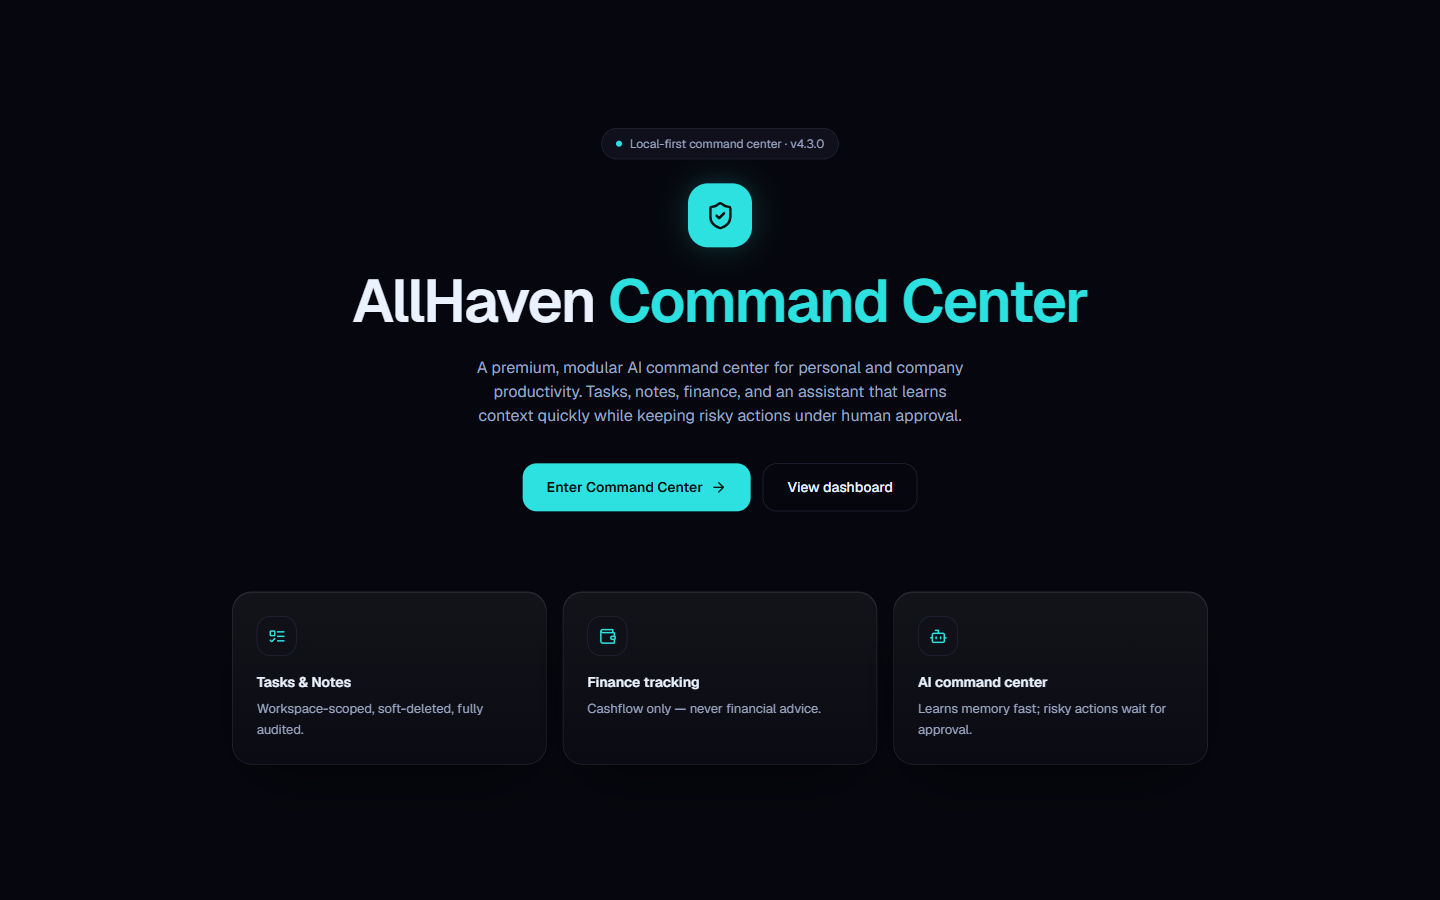
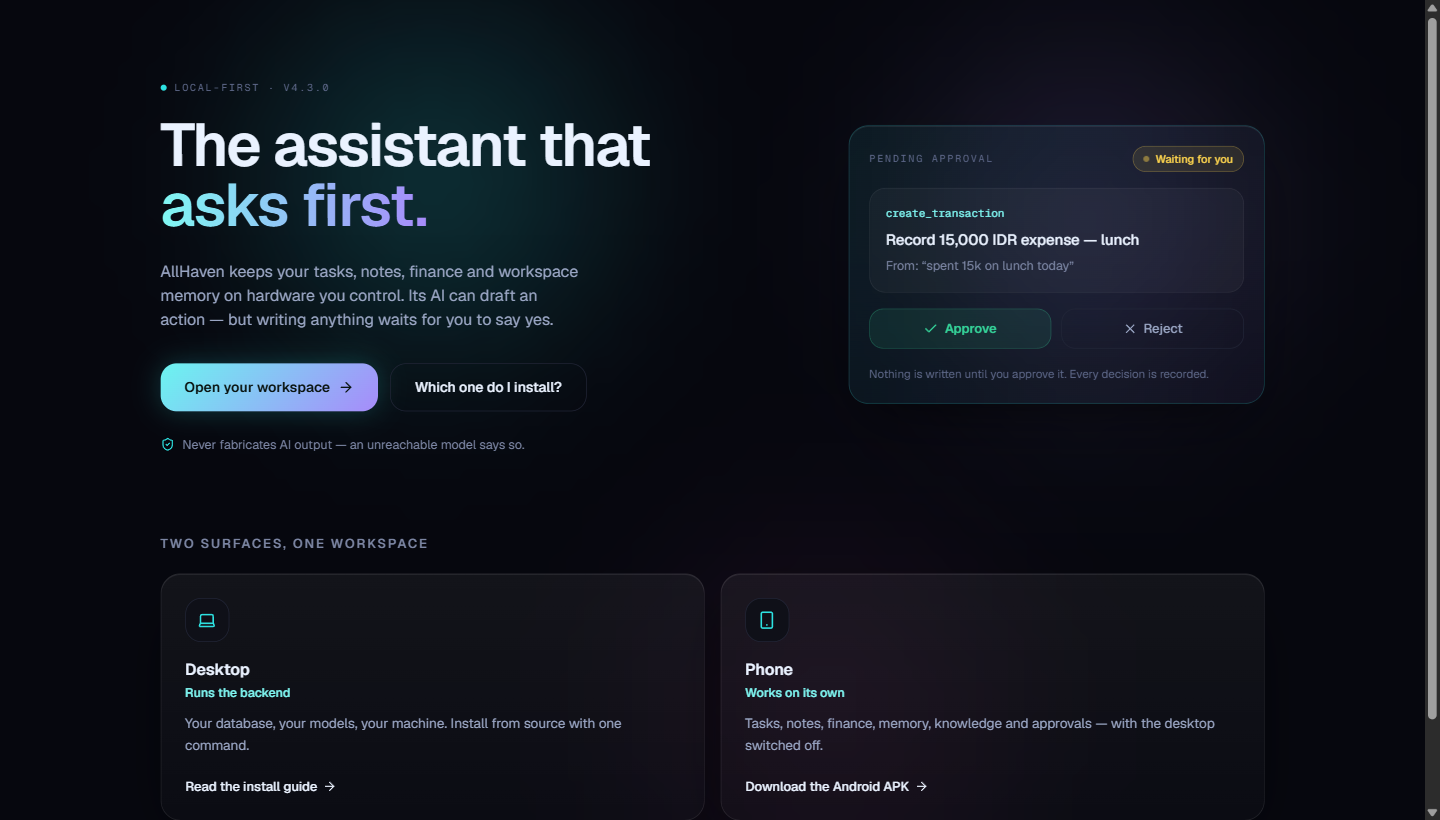
Redesign the landing page around the product's actual thesis
The page before login was the one screen that did not look like AllHaven. It
had none of the app's visual language — no aurora layer, no gradient type, flat
panels — and its content was the generic assistant pitch: badge, icon, title,
paragraph, three feature cards. It could have introduced any product.

What actually separates this app from other AI tools is the opposite of what
those pages claim. It does not act for you; it proposes and waits. So the hero
is now that mechanic rather than a description of it: a pending proposal
rendered in the same panel, chip and button language the real approval queue
uses, next to the headline "The assistant that asks first."

Layout is asymmetric — the argument on the left, the proof on the right —
instead of a centred stack, and the structural device is the two surfaces
(desktop runs the backend, phone works on its own) because choosing between
them is the real decision a visitor makes, and the one people get wrong. That
also puts the install answer on the page, not only in the README.

Built entirely from the existing design system: .aurora, .panel-gradient,
.glass-tile, .text-grad, .label-mono, and the existing animations. Verified at
1440px and at 412px.

diff --git a/frontend/app/page.tsx b/frontend/app/page.tsx
@@ -1,61 +1,156 @@
 import Link from "next/link";
-import { ArrowRight, Bot, ListTodo, ShieldCheck, Wallet } from "lucide-react";
+import { ArrowRight, Check, Laptop, ShieldCheck, Smartphone, X } from "lucide-react";
 import { APP_VERSION } from "@/components/layout/nav";
 
-const FEATURES = [
-  { icon: ListTodo, title: "Tasks & Notes", desc: "Workspace-scoped, soft-deleted, fully audited." },
-  { icon: Wallet, title: "Finance tracking", desc: "Cashflow only — never financial advice." },
-  { icon: Bot, title: "AI command center", desc: "Learns memory fast; risky actions wait for approval." },
+// The landing page argues the one thing that actually separates AllHaven from
+// every other "AI assistant": it proposes, you decide. So the hero is not a
+// stack of adjectives — it is the approval moment itself, rendered in the same
+// visual language the app uses for the real thing.
+const PROPOSAL = {
+  tool: "create_transaction",
+  summary: "Record 15,000 IDR expense — lunch",
+  detail: "From: “spent 15k on lunch today”",
+};
+
+// The two surfaces are the page's structural device because choosing between
+// them is the actual decision a visitor has to make, and the one people get
+// wrong. Not a decorative 01/02/03.
+const SURFACES = [
+  {
+    icon: Laptop,
+    name: "Desktop",
+    role: "Runs the backend",
+    detail: "Your database, your models, your machine. Install from source with one command.",
+    href: "https://github.com/joshuasetiawann/AllHaven-Application#quick-start",
+    cta: "Read the install guide",
+  },
+  {
+    icon: Smartphone,
+    name: "Phone",
+    role: "Works on its own",
+    detail: "Tasks, notes, finance, memory, knowledge and approvals — with the desktop switched off.",
+    href: "https://github.com/joshuasetiawann/AllHaven-Application/releases/tag/mobile-latest",
+    cta: "Download the Android APK",
+  },
 ];
 
 export default function LandingPage() {
   return (
     <main className="relative min-h-screen overflow-hidden">
-      <div className="mx-auto flex max-w-5xl flex-col items-center px-6 py-24 text-center sm:py-32">
-        <span className="mb-6 inline-flex items-center gap-2 rounded-full border border-border bg-surface/70 px-3.5 py-1.5 text-[12px] text-content-muted backdrop-blur">
-          <span className="h-1.5 w-1.5 rounded-full bg-primary" />
-          Local-first command center · {APP_VERSION}
-        </span>
-
-        <div className="mb-6 flex h-16 w-16 items-center justify-center rounded-2xl bg-primary text-primary-fg shadow-glow-primary">
-          <ShieldCheck size={30} />
+      {/* The app's signature ambient layer. Every authenticated screen has it;
+          the landing page did not, which is why it read as a different product. */}
+      <div className="pointer-events-none fixed inset-0 z-0" aria-hidden>
+        <div className="aurora">
+          <i />
         </div>
+      </div>
 
-        <h1 className="max-w-3xl text-balance text-4xl font-semibold tracking-tight text-content sm:text-6xl">
-          AllHaven <span className="text-primary">Command Center</span>
-        </h1>
-        <p className="mt-6 max-w-xl text-balance text-[15px] leading-relaxed text-content-muted sm:text-base">
-          A premium, modular AI command center for personal and company productivity. Tasks, notes,
-          finance, and an assistant that learns context quickly while keeping risky actions
-          under human approval.
-        </p>
+      <div className="relative z-[1] mx-auto w-full max-w-6xl px-6 pb-20 pt-14 sm:pb-24 sm:pt-20">
+        {/* Asymmetric: the argument on the left, the proof on the right. */}
+        <div className="grid gap-12 lg:grid-cols-[minmax(0,1fr)_minmax(0,26rem)] lg:items-center lg:gap-14">
+          <div className="animate-fade-in">
+            <p className="label-mono flex items-center gap-2">
+              <span className="h-1.5 w-1.5 rounded-full bg-primary" />
+              Local-first · {APP_VERSION}
+            </p>
 
-        <div className="mt-9 flex flex-wrap items-center justify-center gap-3">
-          <Link
-            href="/login"
-            className="inline-flex h-12 items-center gap-2 rounded-lg bg-primary px-6 text-sm font-semibold text-primary-fg transition-colors hover:bg-primary-bright"
-          >
-            Enter Command Center <ArrowRight size={16} />
-          </Link>
-          <Link
-            href="/dashboard"
-            className="inline-flex h-12 items-center rounded-lg border border-border px-6 text-sm font-medium text-content transition-colors hover:border-primary/60 hover:text-primary"
-          >
-            View dashboard
-          </Link>
-        </div>
+            <h1 className="mt-5 text-balance text-[2.6rem] font-semibold leading-[1.05] tracking-tight text-content sm:text-6xl">
+              The assistant that
+              <br />
+              <span className="text-grad">asks first.</span>
+            </h1>
 
-        <div className="mt-20 grid w-full gap-4 sm:grid-cols-3">
-          {FEATURES.map(({ icon: Icon, title, desc }) => (
-            <div key={title} className="panel p-6 text-left">
-              <span className="flex h-10 w-10 items-center justify-center rounded-lg border border-border bg-surface-input text-primary">
-                <Icon size={18} />
-              </span>
-              <h3 className="mt-4 text-sm font-semibold text-content">{title}</h3>
-              <p className="mt-1.5 text-[13px] leading-relaxed text-content-muted">{desc}</p>
+            <p className="mt-6 max-w-lg text-balance text-[15px] leading-relaxed text-content-muted sm:text-base">
+              AllHaven keeps your tasks, notes, finance and workspace memory on hardware you
+              control. Its AI can draft an action — but writing anything waits for you to say yes.
+            </p>
+
+            <div className="mt-8 flex flex-wrap items-center gap-3">
+              <Link
+                href="/login"
+                className="focus-ring grad-primary inline-flex h-12 w-full items-center justify-center gap-2 rounded-xl px-6 text-sm font-semibold text-primary-fg shadow-glow-primary transition-transform hover:-translate-y-0.5 sm:w-auto"
+              >
+                Open your workspace <ArrowRight size={16} />
+              </Link>
+              <Link
+                href="#surfaces"
+                className="focus-ring inline-flex h-12 w-full items-center justify-center rounded-xl border border-border px-6 text-sm font-medium text-content transition-colors hover:border-primary/60 hover:text-primary sm:w-auto"
+              >
+                Which one do I install?
+              </Link>
             </div>
-          ))}
+
+            <p className="mt-6 flex items-center gap-2 text-[12.5px] text-content-subtle">
+              <ShieldCheck size={14} className="shrink-0 text-primary" />
+              Never fabricates AI output — an unreachable model says so.
+            </p>
+          </div>
+
+          {/* Signature: the approval queue, the product's actual mechanic. */}
+          <div className="animate-slide-up lg:animate-float-y">
+            <div className="panel-gradient p-5">
+              <div className="flex items-center justify-between">
+                <p className="label-mono">Pending approval</p>
+                <span className="inline-flex items-center gap-1.5 rounded-full border border-warning/30 bg-warning/10 px-2.5 py-1 text-[11px] font-medium text-warning">
+                  <span className="h-1.5 w-1.5 animate-pulse-glow rounded-full bg-warning" />
+                  Waiting for you
+                </span>
+              </div>
+
+              <div className="glass-tile mt-4 p-4">
+                <p className="font-mono text-[11px] text-primary-bright">{PROPOSAL.tool}</p>
+                <p className="mt-2 text-[15px] font-medium leading-snug text-content">
+                  {PROPOSAL.summary}
+                </p>
+                <p className="mt-1.5 text-[12.5px] leading-relaxed text-content-subtle">
+                  {PROPOSAL.detail}
+                </p>
+              </div>
+
+              <div className="mt-4 grid grid-cols-2 gap-2.5" aria-hidden>
+                <span className="inline-flex h-10 items-center justify-center gap-1.5 rounded-lg border border-success/30 bg-success/10 text-[13px] font-semibold text-success">
+                  <Check size={15} /> Approve
+                </span>
+                <span className="inline-flex h-10 items-center justify-center gap-1.5 rounded-lg border border-border text-[13px] font-medium text-content-muted">
+                  <X size={15} /> Reject
+                </span>
+              </div>
+
+              <p className="mt-4 text-[11.5px] leading-relaxed text-content-faint">
+                Nothing is written until you approve it. Every decision is recorded.
+              </p>
+            </div>
+          </div>
         </div>
+
+        {/* The install decision, answered where people actually look for it. */}
+        <section id="surfaces" className="mt-16 scroll-mt-8 sm:mt-20">
+          <h2 className="text-[13px] font-semibold uppercase tracking-[0.14em] text-content-subtle">
+            Two surfaces, one workspace
+          </h2>
+          <div className="mt-5 grid gap-4 sm:grid-cols-2">
+            {SURFACES.map(({ icon: Icon, name, role, detail, href, cta }) => (
+              <a
+                key={name}
+                href={href}
+                className="focus-ring panel panel-hover group flex flex-col p-6"
+              >
+                <span className="flex h-11 w-11 items-center justify-center rounded-xl border border-border bg-surface-input text-primary">
+                  <Icon size={19} />
+                </span>
+                <h3 className="mt-4 text-base font-semibold text-content">{name}</h3>
+                <p className="mt-0.5 text-[12.5px] font-medium text-primary-bright">{role}</p>
+                <p className="mt-2.5 flex-1 text-[13.5px] leading-relaxed text-content-muted">
+                  {detail}
+                </p>
+                <span className="mt-5 inline-flex items-center gap-1.5 text-[13px] font-medium text-content transition-colors group-hover:text-primary">
+                  {cta}
+                  <ArrowRight size={14} className="transition-transform group-hover:translate-x-0.5" />
+                </span>
+              </a>
+            ))}
+          </div>
+        </section>
       </div>
     </main>
   );
